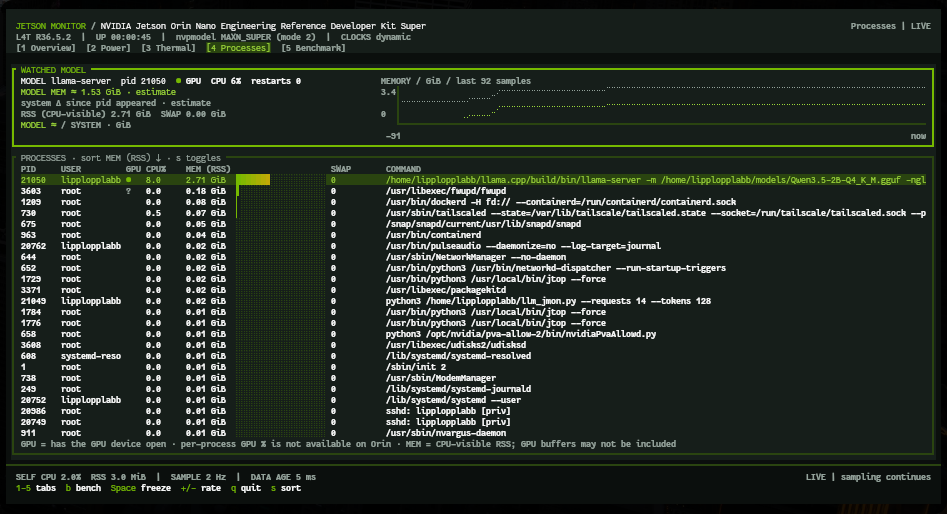
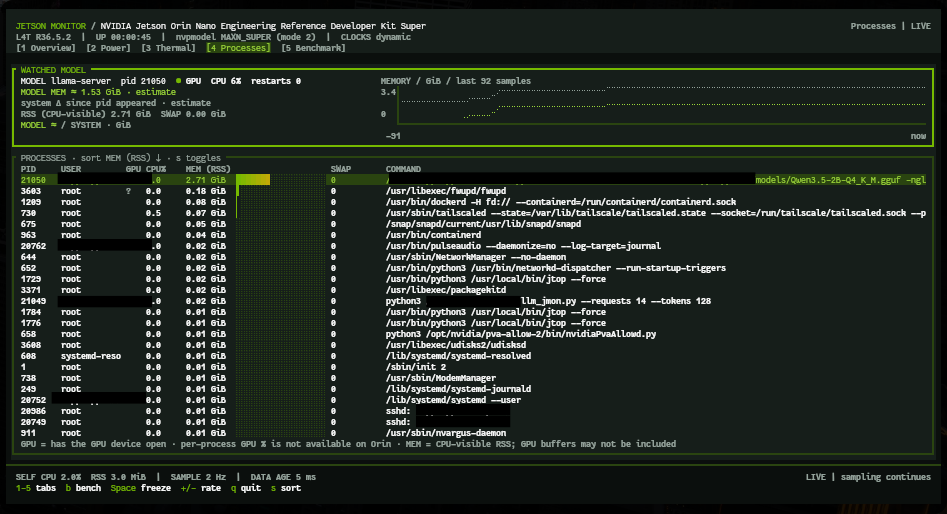
README: crates.io badges and release steps; redacted process screenshot

diff --git a/README.md b/README.md
@@ -1,5 +1,12 @@
 # jmon
 
+[![crates.io](https://img.shields.io/crates/v/jmon.svg)](https://crates.io/crates/jmon)
+[![license: MIT](https://img.shields.io/badge/license-MIT-green.svg)](LICENSE)
+
+```sh
+cargo install jmon
+```
+
 jmon is a btop/nvtop-style terminal hardware monitor for NVIDIA Jetson, developed and tested on the Orin Nano. It is written in Rust with ratatui and shows CPU, GPU, memory, power, cooling, processes, and model workload statistics in one terminal. Monitoring is read-only, needs no root privileges, and uses about 2 MB of RAM (PSS). Benchmark checks help you see whether the board still matches your chosen test conditions; jmon never changes hardware settings.
 
 Not affiliated with or endorsed by NVIDIA.
@@ -617,6 +624,18 @@ cargo fmt
 cargo fmt --check
 cargo clippy
 ```
+
+### Releasing a new version
+
+```sh
+# 1. bump `version` in Cargo.toml (e.g. 0.1.0 → 0.1.1), then:
+cargo fmt --check && cargo clippy && cargo test
+cargo publish --dry-run          # builds the exact crate that will be uploaded
+git commit -am "Release v0.1.1" && git tag v0.1.1 && git push --follow-tags
+cargo publish                    # needs `cargo login` once; published versions can be yanked, never replaced
+```
+
+`cargo publish` refuses uncommitted changes — commit first instead of passing `--allow-dirty`, so the crate always matches a commit on GitHub. `docs/` and `fixture/` are excluded from the crate (see `exclude` in Cargo.toml); the tests that use the fixture run from the git checkout.
 
 ## License
 
